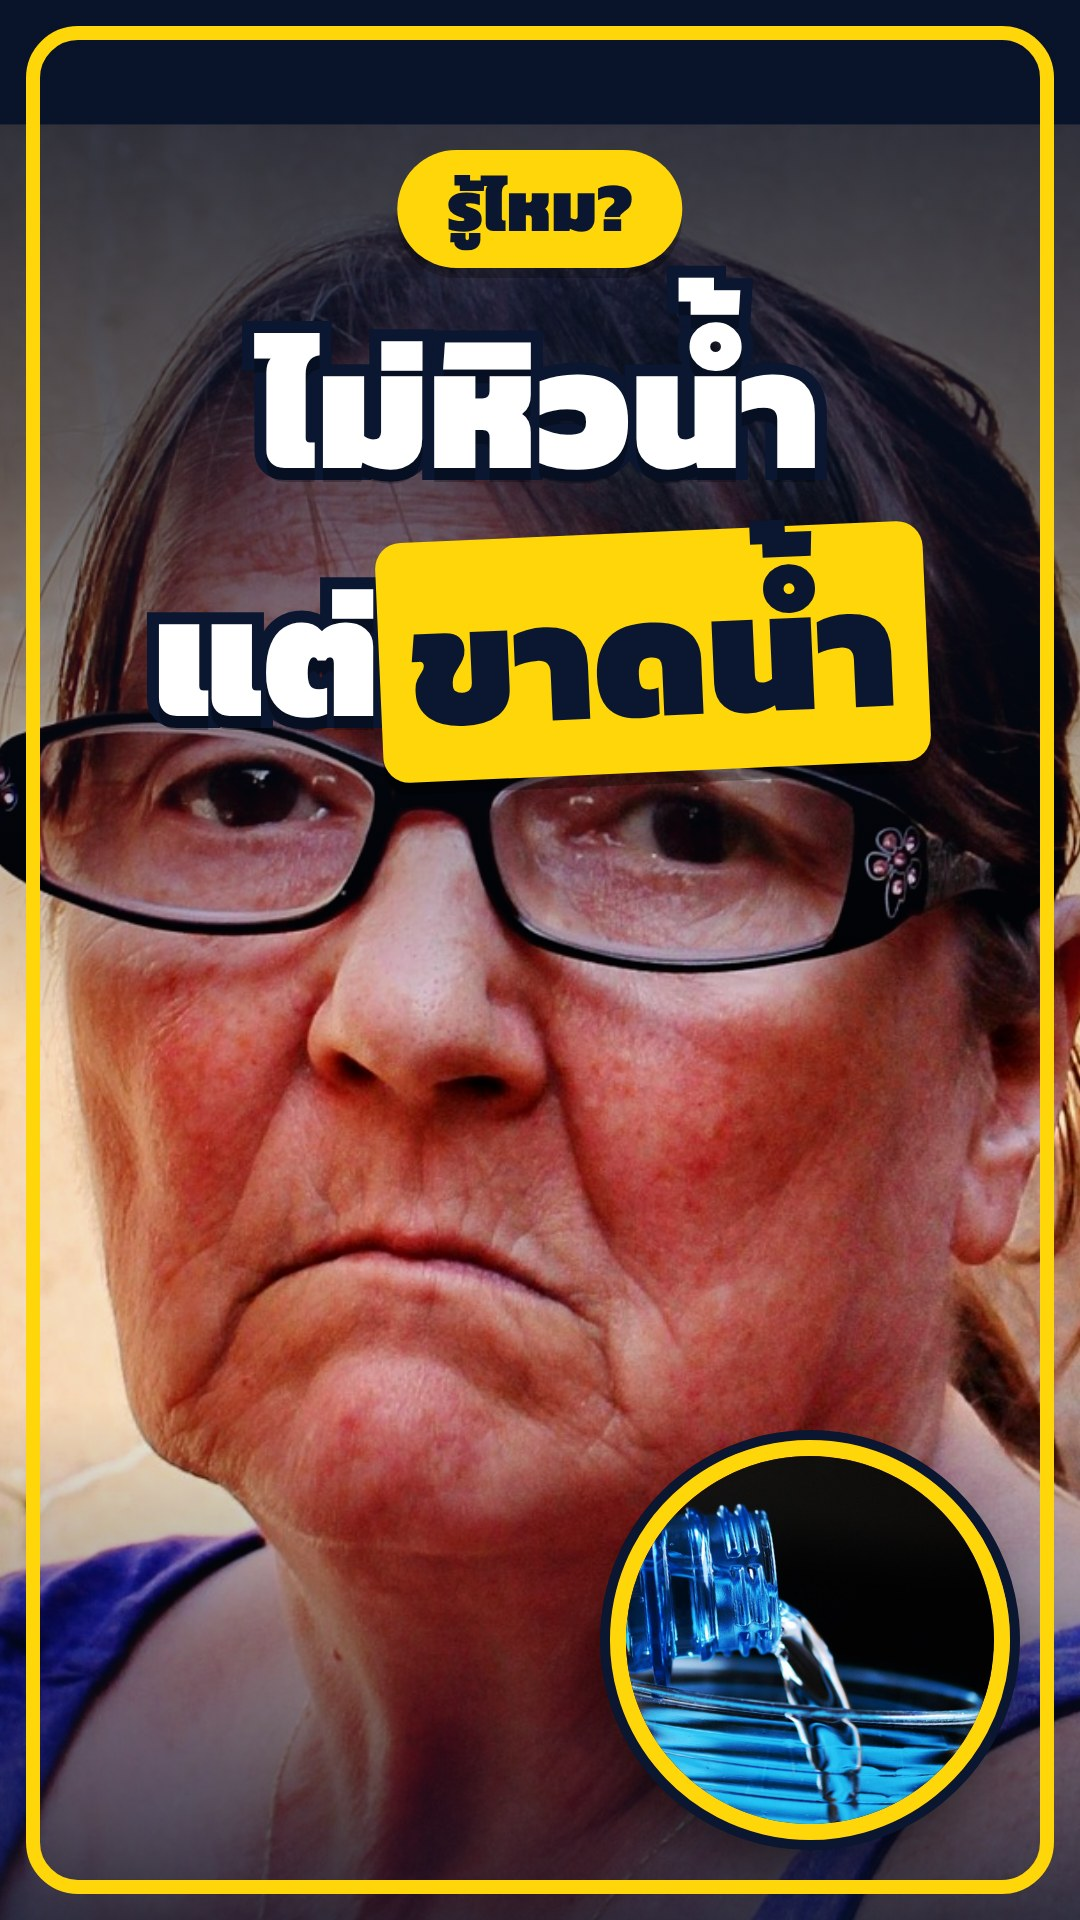
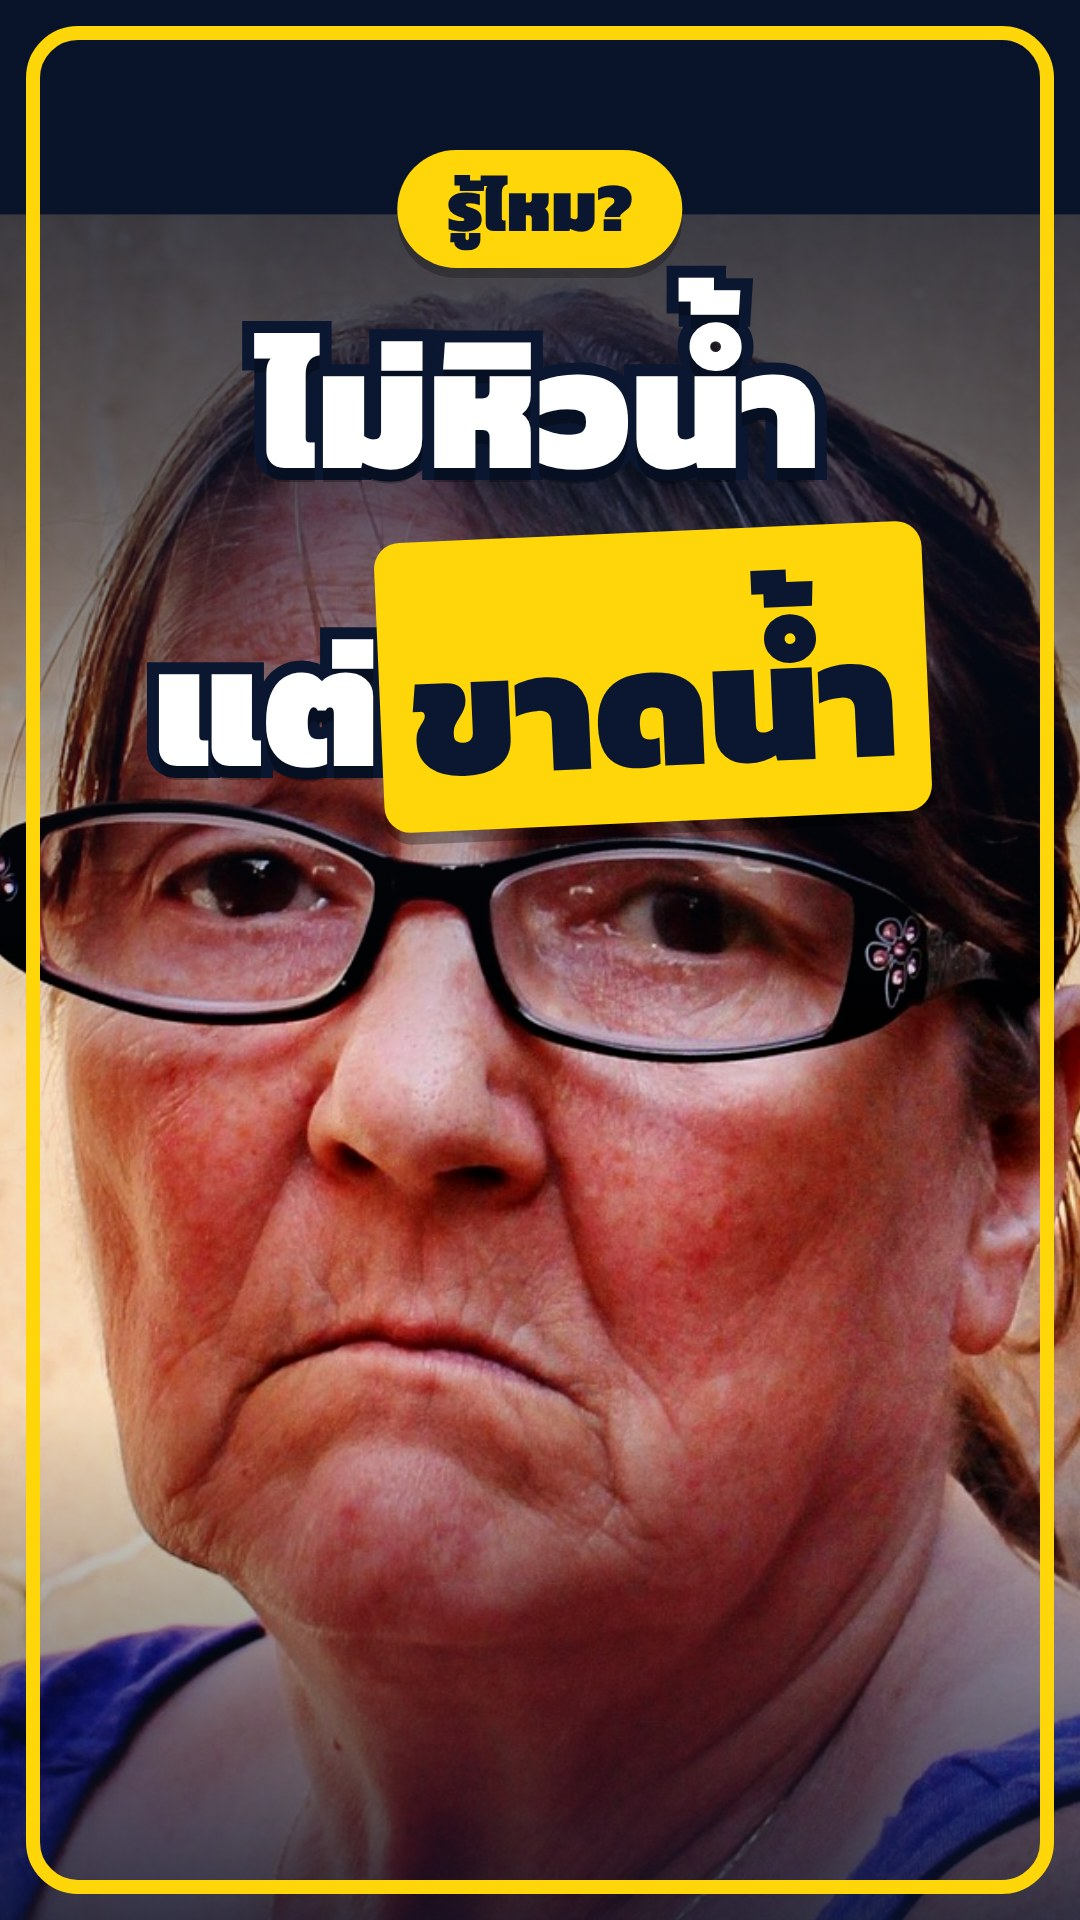
Elder-thirst: review, cover fix (tone mark room, no sticker), upload.md
Claude-Session: https://claude.ai/code/session_016zMkaSz7gdi7znSy92Uxwr

diff --git a/channels/knowledge/cover/template.html b/channels/knowledge/cover/template.html
@@ -17,7 +17,7 @@ html,body{width:1080px;height:1920px;overflow:hidden;background:var(--navy)}
 .line{display:block;color:var(--w);font-weight:900;line-height:1.28;white-space:nowrap;
   -webkit-text-stroke:24px var(--navy);paint-order:stroke fill;text-shadow:0 14px 0 rgba(0,0,0,.28)}
 .hl{display:inline-block;background:var(--y);color:var(--navy);-webkit-text-stroke:0;text-shadow:none;
-  padding:16px 30px 6px;border-radius:26px;transform:rotate(-2.5deg);box-shadow:0 12px 0 rgba(0,0,0,.3);margin:14px 0}
+  padding:66px 30px 6px;border-radius:26px;transform:rotate(-2.5deg);box-shadow:0 12px 0 rgba(0,0,0,.3);margin:14px 0}
 .sticker{position:absolute;right:70px;top:1150px;width:400px;height:400px;border-radius:50%;overflow:hidden;
   border:16px solid var(--y);box-shadow:0 0 0 10px var(--navy),0 30px 60px rgba(0,0,0,.5);transform:rotate(6deg)}
 .sticker img{width:100%;height:100%;object-fit:cover}

diff --git a/projects/2026-11-17-knowledge-elder-thirst/review.md b/projects/2026-11-17-knowledge-elder-thirst/review.md
@@ -1,0 +1,14 @@
+# Review: elder-thirst-th.mp4 (Short, TH): **ไม่ผ่าน**: ต้องแก้ตามรายการ
+
+ผ่าน: 1080x1920, 29.1 วิ, มีเสียง, ไม่มีช่วงเงียบ/ภาพดำ, VO เริ่ม 0.0 วิ ไม่มีช่องว่าง >0.35 วิ, -16.2 LUFS / TP -5.0 dBFS,
+ซับ 1-3 คำที่ ~60% ฟอนต์ Kanit, คำถามปิด 3.3 วิ, ข้อเท็จจริงตรง research.md (ราว/อาจ, ไม่มีปริมาณน้ำ, มีข้อควรระวังหัวใจ/ไต, ไม่วินิจฉัย),
+CREDITS ครบ (เพลง CC BY 3.0, SFX CC0 ใน video/sound/CREDITS.txt), ไม่มีโลโก้
+
+## รายการแก้
+1. **20.84-22.0 "sip" (จิบน้ำ)**: ภาพเป็นขวดเทน้ำ ไม่ใช่คนจิบ ส่วนภาพชายแก่ถือขวด (sip.jpg) ไปโผล่ที่ช็อต "glass" 3.66-5.3 แทน (ภาพสลับกันเทียบกับ CREDITS/shots-th.json) ไอคอนแก้วเริ่มเติมที่ 20.92 และค่อยๆ ขึ้นไปจนถึง 21.9 จุดพีคมาหลังคำ ไม่ได้ลงตรงคำ ไอคอนยังเล็กเกินจะอ่านบนมือถือ (~40px) | **editor** (ถ้าไฟล์ตั้งชื่อผิดให้ **footage** แก้)
+2. **22.0-23.26 "wait"**: ยืนยันว่าพื้นเทาหม่น มีเศษภาพนาฬิกาตกค้าง และมีเส้นลูกตุ้มหลุดอยู่ใต้ซับ ต้องปรับโทนให้เข้มขึ้นแล้วลบเศษภาพ | **editor**
+3. **11.66 "สมอง"**: สมองเป็นก้อนเรียบๆ ยังไม่มีรอยหยัก ดูไม่ออกว่าเป็นสมอง พอถึง 13.36 "เบาลง" คลื่นเพิ่งจางไปได้ครึ่งเดียว จนถึง ~13.6 ถึงหายหมด ควรให้คลื่นแบนสุดตรงคำ ป้าย "สัญญาณหิวน้ำ" ก็ตัวเล็กและจาง | **editor**
+4. **3.7-4.4 เกจ "หิวน้ำ"**: ป้ายและเกจเล็กมาก (~20px) บนมือถืออ่านไม่ออก | **editor**
+5. **16.0 "ทดลอง"**: ขวาของนาฬิกามีวงกลมเทาหลุดอยู่ และเข็มแดงทับเลข "24" | **editor**
+6. **cover-th.jpg**: ไม้โทของ "น้ำ" ล้นขอบบนของกล่องเหลือง (ผิดข้อกำหนดใน cover README) ส่วนสติกเกอร์ขวดย่อเหลือ 120px แล้วดูไม่ออกว่าเป็นอะไร | **ผู้กำกับ** (แก้ cover.json / tools/cover.js)
+7. ยังไม่มี upload.md (ข้อ 7 ของ reviewer: ต้องมีเครดิตเพลงและ SFX ครบ) | **ผู้กำกับ**

diff --git a/projects/2026-11-17-knowledge-elder-thirst/upload.md b/projects/2026-11-17-knowledge-elder-thirst/upload.md
@@ -1,0 +1,23 @@
+# Upload: elder-thirst (ไทย) — ไฟล์ `renders/elder-thirst-th.mp4` (~29 วิ) | ปก `cover-th.jpg`
+
+## YouTube Shorts
+**ชื่อคลิป (เลือก 1)**
+1. คนแก่ไม่หิวน้ำ แต่กำลังขาดน้ำ? 💧 #shorts  ← แนะนำ
+2. คุณยายมึนๆ งงๆ อาจไม่ใช่เพราะแก่ #shorts
+3. ทำไมผู้สูงอายุขาดน้ำโดยไม่รู้ตัว #shorts
+
+**คำอธิบาย**
+อายุมากขึ้น สมองส่งสัญญาณหิวน้ำช้าลงและเบาลง ผู้สูงอายุราว 1 ใน 4 อาจกำลังขาดน้ำโดยไม่รู้ตัว
+ชวนคนที่บ้านจิบน้ำเป็นช่วงๆ ไม่ต้องรอหิว (ถ้ามีโรคหัวใจหรือโรคไต ถามหมอก่อนว่าดื่มได้แค่ไหน)
+คลิปนี้ให้ความรู้ทั่วไป ไม่ใช่คำแนะนำทางการแพทย์ ถ้าสับสนเฉียบพลัน หน้ามืดมาก หรือไม่ปัสสาวะทั้งวัน รีบพบแพทย์
+
+แหล่งข้อมูล: Mayo Clinic (Dehydration), Phillips et al. NEJM 1984, Parkinson & Hooper et al. Clinical Nutrition 2023, NIA, กรมอนามัย
+เพลง: "Lucky Acoustic" by Jesse Keller (CC BY 3.0) https://www.jamendo.com/track/1540859
+ภาพ: Pixabay (Leroy_Skalstad, congerdesign, Mokaza, Couleur, Andrew_Poynton, lin2867, sascha_kircher, erwinbosman)
+
+#สุขภาพผู้สูงอายุ #ขาดน้ำ #รู้ไหม #ความรู้รอบตัว #shorts
+
+## TikTok
+**แคปชัน (≤150 ตัวอักษร)**
+คนแก่ไม่หิวน้ำ แต่อาจกำลังขาดน้ำ 💧 ที่บ้านใครชอบลืมกินน้ำบ้าง? #สุขภาพผู้สูงอายุ #ขาดน้ำ #รู้ไหม #ความรู้รอบตัว
+**คอมเมนต์แรก (เครดิต)**: เพลง "Lucky Acoustic" by Jesse Keller (CC BY 3.0) jamendo.com/track/1540859 | ภาพ Pixabay
